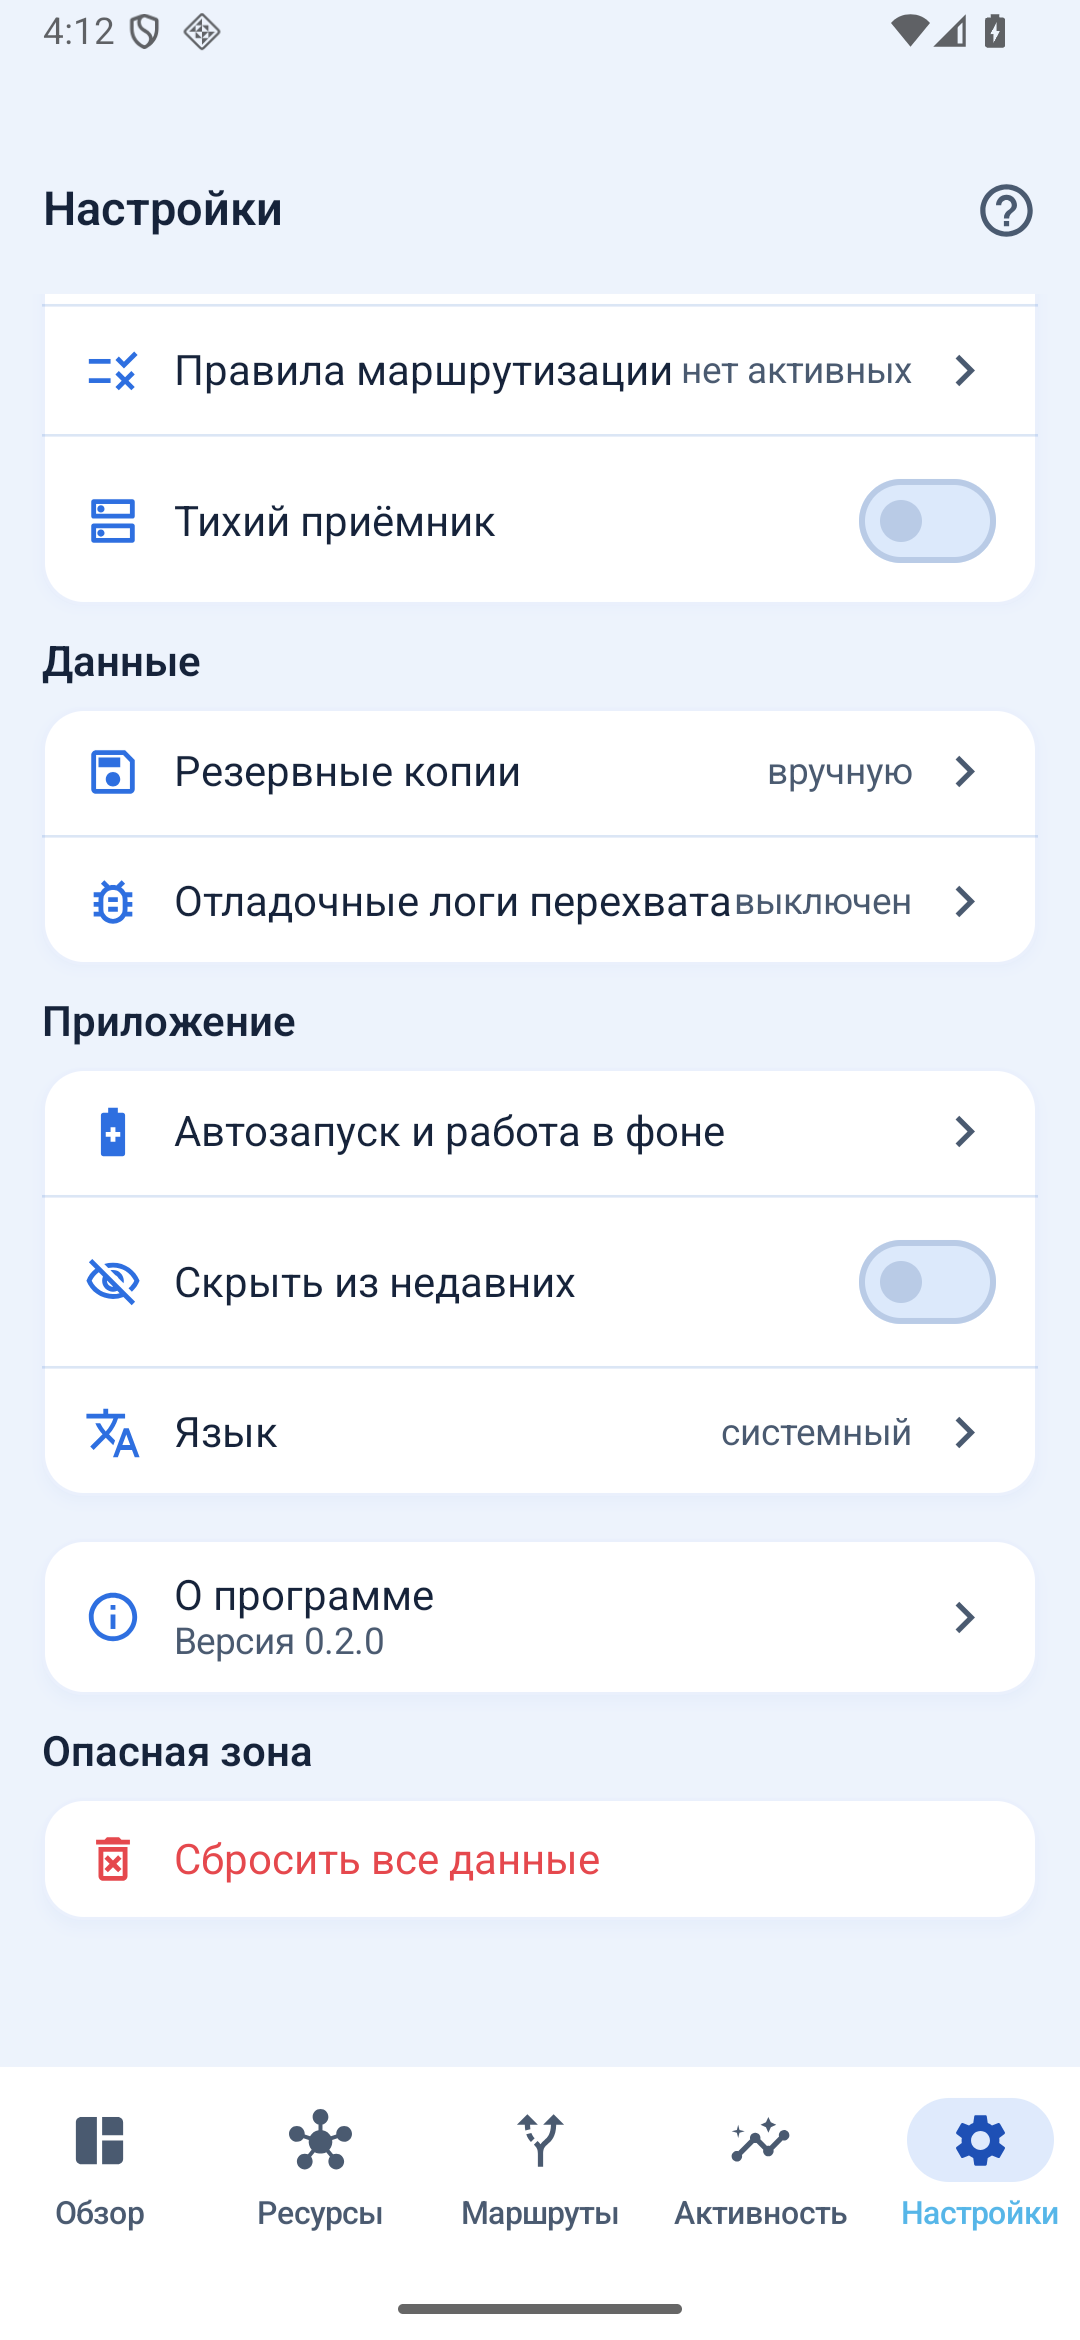
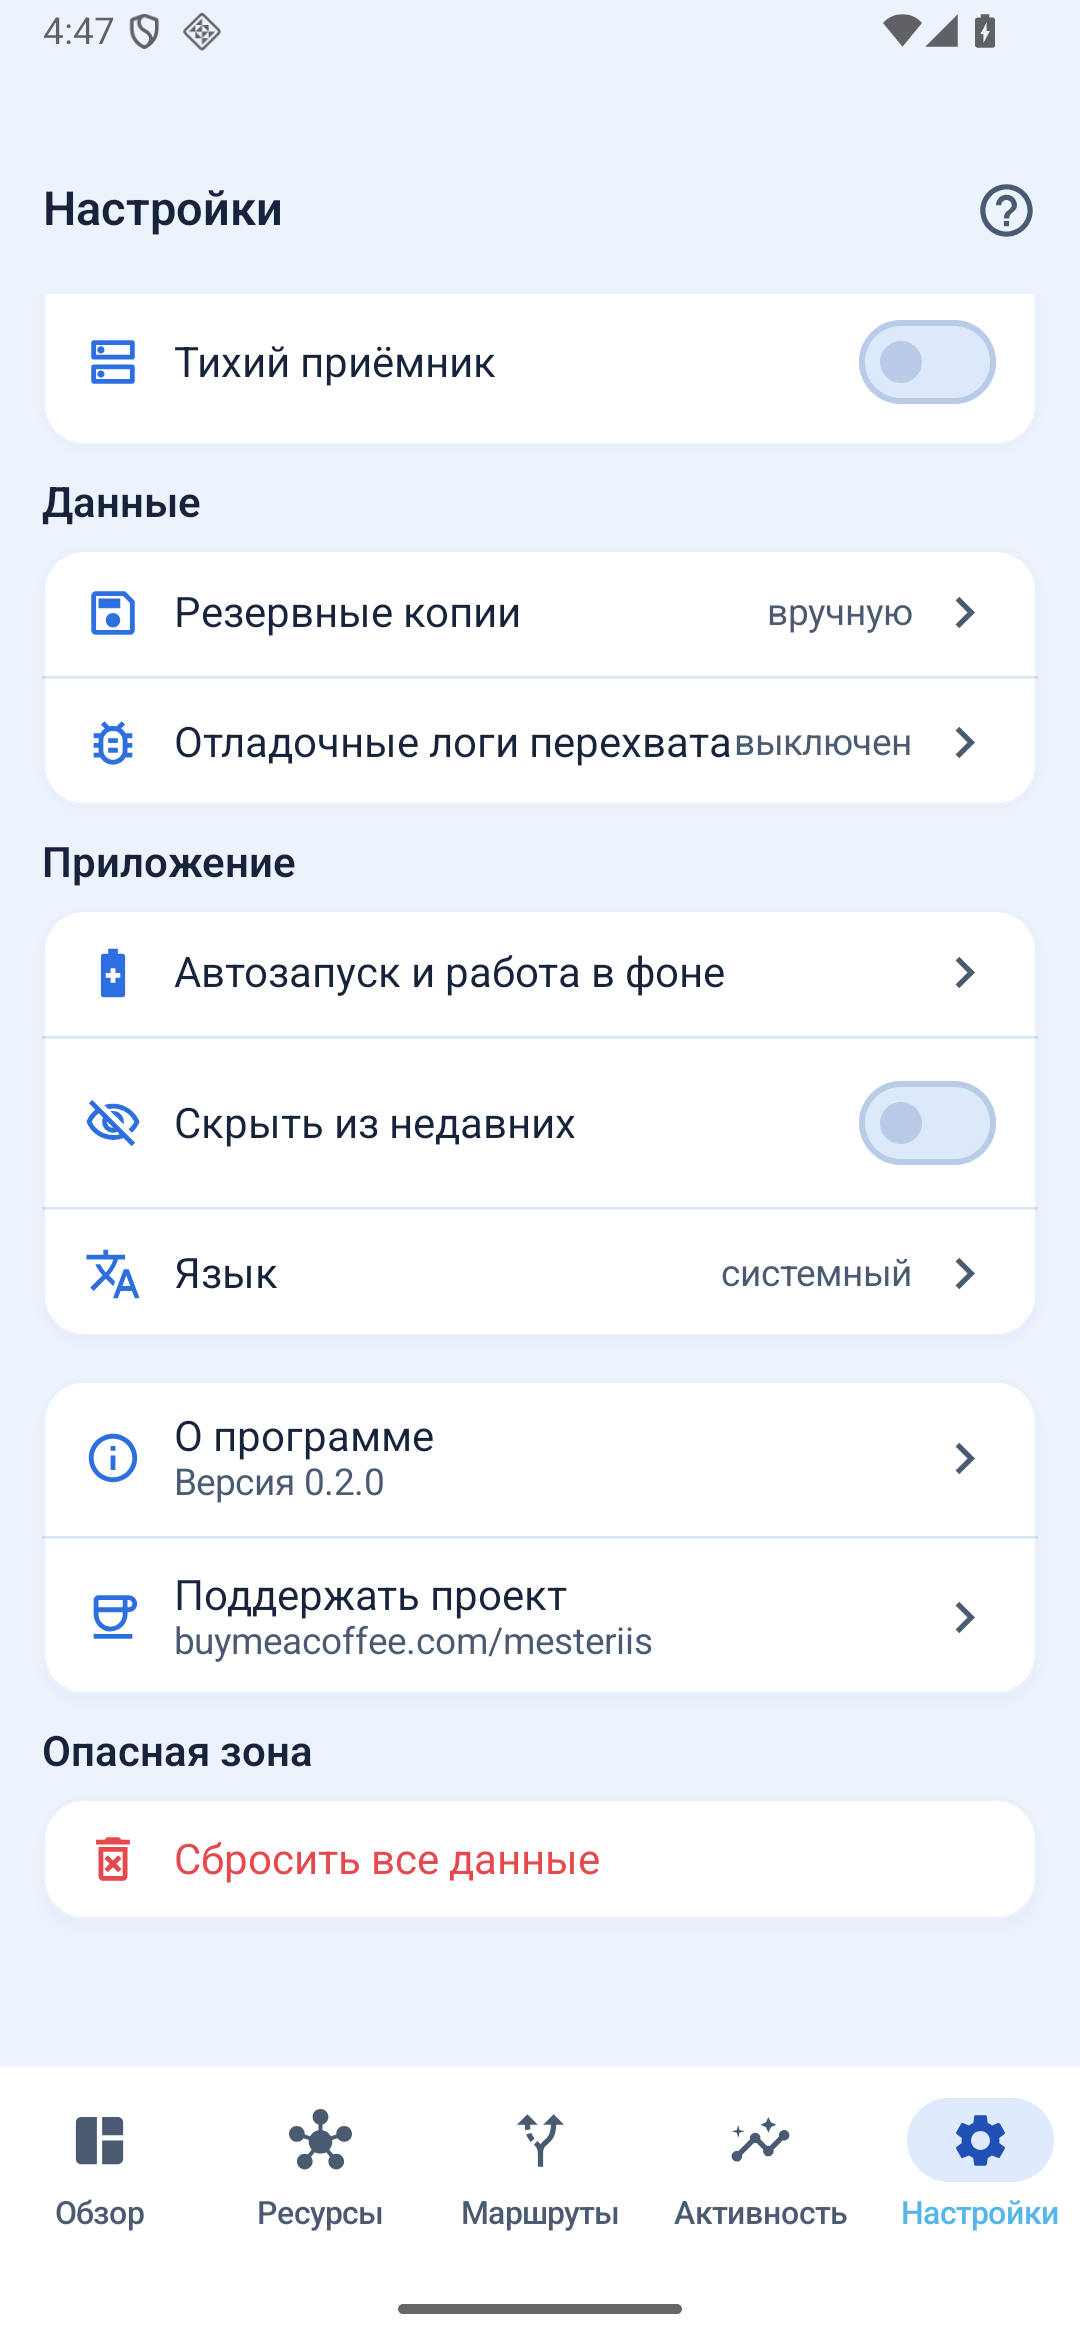
feat(поддержка): Buy Me a Coffee в приложении и репозитории
В Настройках рядом с «О программе» — строка «Поддержать проект», в
«О программе» — карточка с кнопкой; обе открывают buymeacoffee.com/mesteriis
во внешнем браузере, платёжных механизмов внутри приложения нет. В репозитории —
FUNDING.yml (кнопка Sponsor), бейдж и раздел в README. Скриншоты настроек и
GIF-туры переняты с новой строкой, добавлен снимок «О программе».

diff --git a/app/src/main/java/com/aigate/router/ui/screens/SettingsScreen.kt b/app/src/main/java/com/aigate/router/ui/screens/SettingsScreen.kt
@@ -20,6 +20,7 @@ import androidx.compose.material.icons.automirrored.outlined.Rule
 import androidx.compose.material.icons.filled.Check
 import androidx.compose.material.icons.outlined.BatterySaver
 import androidx.compose.material.icons.outlined.BugReport
+import androidx.compose.material.icons.outlined.Coffee
 import androidx.compose.material.icons.outlined.DeleteForever
 import androidx.compose.material.icons.outlined.Dns
 import androidx.compose.material.icons.outlined.Info
@@ -297,6 +298,24 @@ fun SettingsScreen(
                     subtitle = appVersion.takeIf { it.isNotBlank() }?.let { "Версия $it" },
                     icon = Icons.Outlined.Info,
                     onClick = onOpenAbout,
+                )
+                SettingsSeparator()
+                // Пожертвования — только внешняя страница: никаких платёжных
+                // механизмов внутри приложения.
+                SettingsRow(
+                    title = "Поддержать проект",
+                    subtitle = "buymeacoffee.com/mesteriis",
+                    icon = Icons.Outlined.Coffee,
+                    onClick = {
+                        runCatching {
+                            context.startActivity(
+                                android.content.Intent(
+                                    android.content.Intent.ACTION_VIEW,
+                                    android.net.Uri.parse("https://buymeacoffee.com/mesteriis"),
+                                ),
+                            )
+                        }
+                    },
                 )
             }
 

diff --git a/app/src/main/java/com/aigate/router/ui/screens/DataManagementScreen.kt b/app/src/main/java/com/aigate/router/ui/screens/DataManagementScreen.kt
@@ -166,6 +166,30 @@ fun AboutScreen(
             InfoRow("Получено", Fmt.bytes(downloaded))
         }
 
+        SectionHeader("Поддержать")
+        AppCard(tone = CardTone.Raised) {
+            Text(
+                "AiGate — открытый проект и развивается в свободное время.",
+                style = MaterialTheme.typography.bodyMedium,
+                color = MaterialTheme.colorScheme.onSurfaceVariant,
+            )
+            Spacer(Modifier.size(Gateway.spacing.md))
+            // Пожертвования — только внешняя страница, платежей в приложении нет.
+            OutlinedButton(
+                onClick = {
+                    runCatching {
+                        context.startActivity(
+                            android.content.Intent(
+                                android.content.Intent.ACTION_VIEW,
+                                android.net.Uri.parse("https://buymeacoffee.com/mesteriis"),
+                            ),
+                        )
+                    }
+                },
+                modifier = Modifier.fillMaxWidth(),
+            ) { Text("Угостить кофе — buymeacoffee.com/mesteriis") }
+        }
+
         if (CrashHandler.hasCrashLog()) {
             SectionHeader("Диагностика")
             AppCard(tone = CardTone.Raised) {

diff --git a/README.md b/README.md
@@ -4,6 +4,7 @@
 [![Release](https://img.shields.io/github/v/release/Mesteriis/ai-gate?include_prereleases&label=release)](https://github.com/Mesteriis/ai-gate/releases)
 [![License](https://img.shields.io/badge/license-Apache--2.0-blue.svg)](LICENSE)
 ![Android](https://img.shields.io/badge/Android%207.0%2B-API%2024-3DDC84?logo=android&logoColor=white)
+[![Buy Me a Coffee](https://img.shields.io/badge/Buy%20me%20a%20coffee-mesteriis-FFDD00?logo=buymeacoffee&logoColor=black)](https://buymeacoffee.com/mesteriis)
 
 Локальный OpenAI-совместимый **AI-шлюз, менеджер AI-ресурсов и policy-роутер** для
 Android. Приложение превращает телефон в маршрутизатор запросов к разным провайдерам
@@ -233,6 +234,12 @@ APK появится в `app/build/outputs/apk/debug/`. Для релизной 
   (OpenRouter/Codex/Claude/DeepSeek/Cursor).
 - Добавлены локальные модели (LiteRT-LM, llama.cpp/GGUF, Gemini Nano/AICore)
   и комплект из двенадцати домашних виджетов.
+
+## Поддержать проект
+
+AiGate — открытый проект и развивается в свободное время. Если шлюз оказался
+полезен — можно [угостить разработчика кофе](https://buymeacoffee.com/mesteriis).
+Та же ссылка есть в приложении: Настройки → «Поддержать проект».
 
 ## Лицензия
 

diff --git a/docs/SCREENSHOTS.md b/docs/SCREENSHOTS.md
@@ -17,6 +17,7 @@ NavigationRail). Темы — системные светлая и тёмная.
 | Активность · Журнал | ![Журнал](images/app/07-journal-light.png) | — |
 | Настройки | ![Настройки](images/app/05-settings-light.png) | ![Настройки, тёмная](images/app/05-settings-dark.png) |
 | Настройки (низ) | ![Настройки, низ](images/app/08-settings2-light.png) | — |
+| О программе | ![О программе](images/app/09-about-light.png) | — |
 
 ## Большой экран (Z Fold развёрнут)
 
